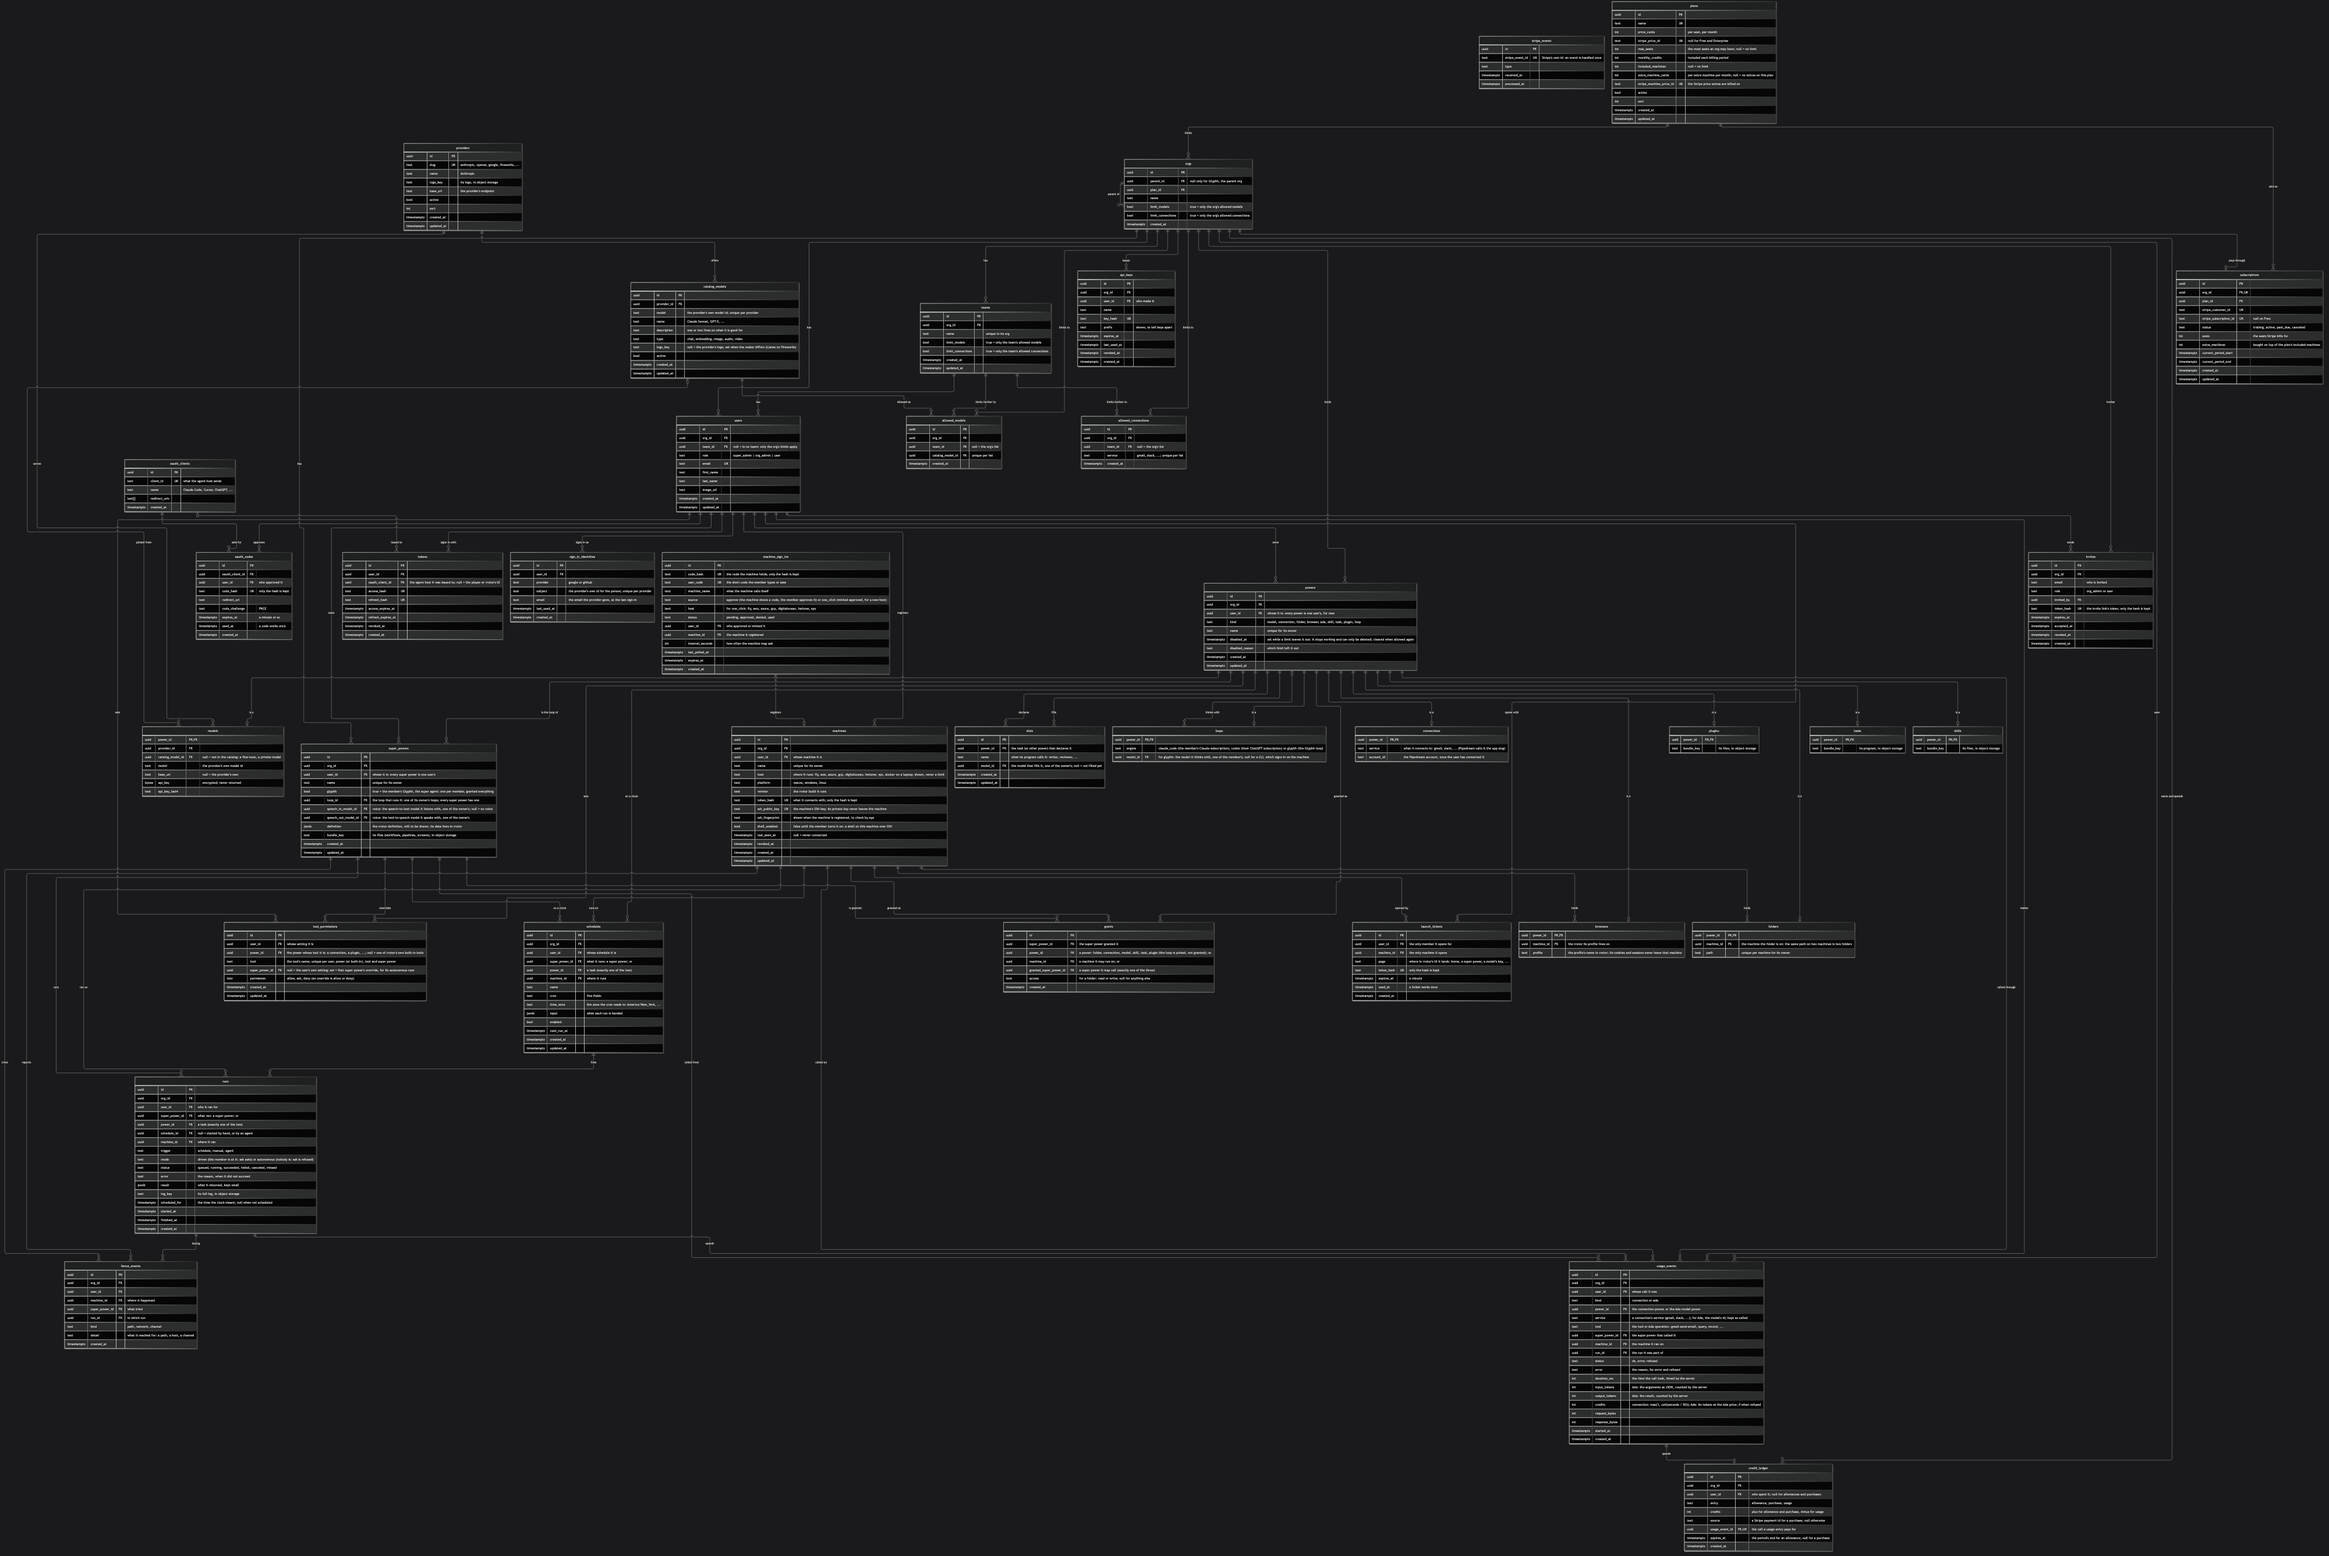
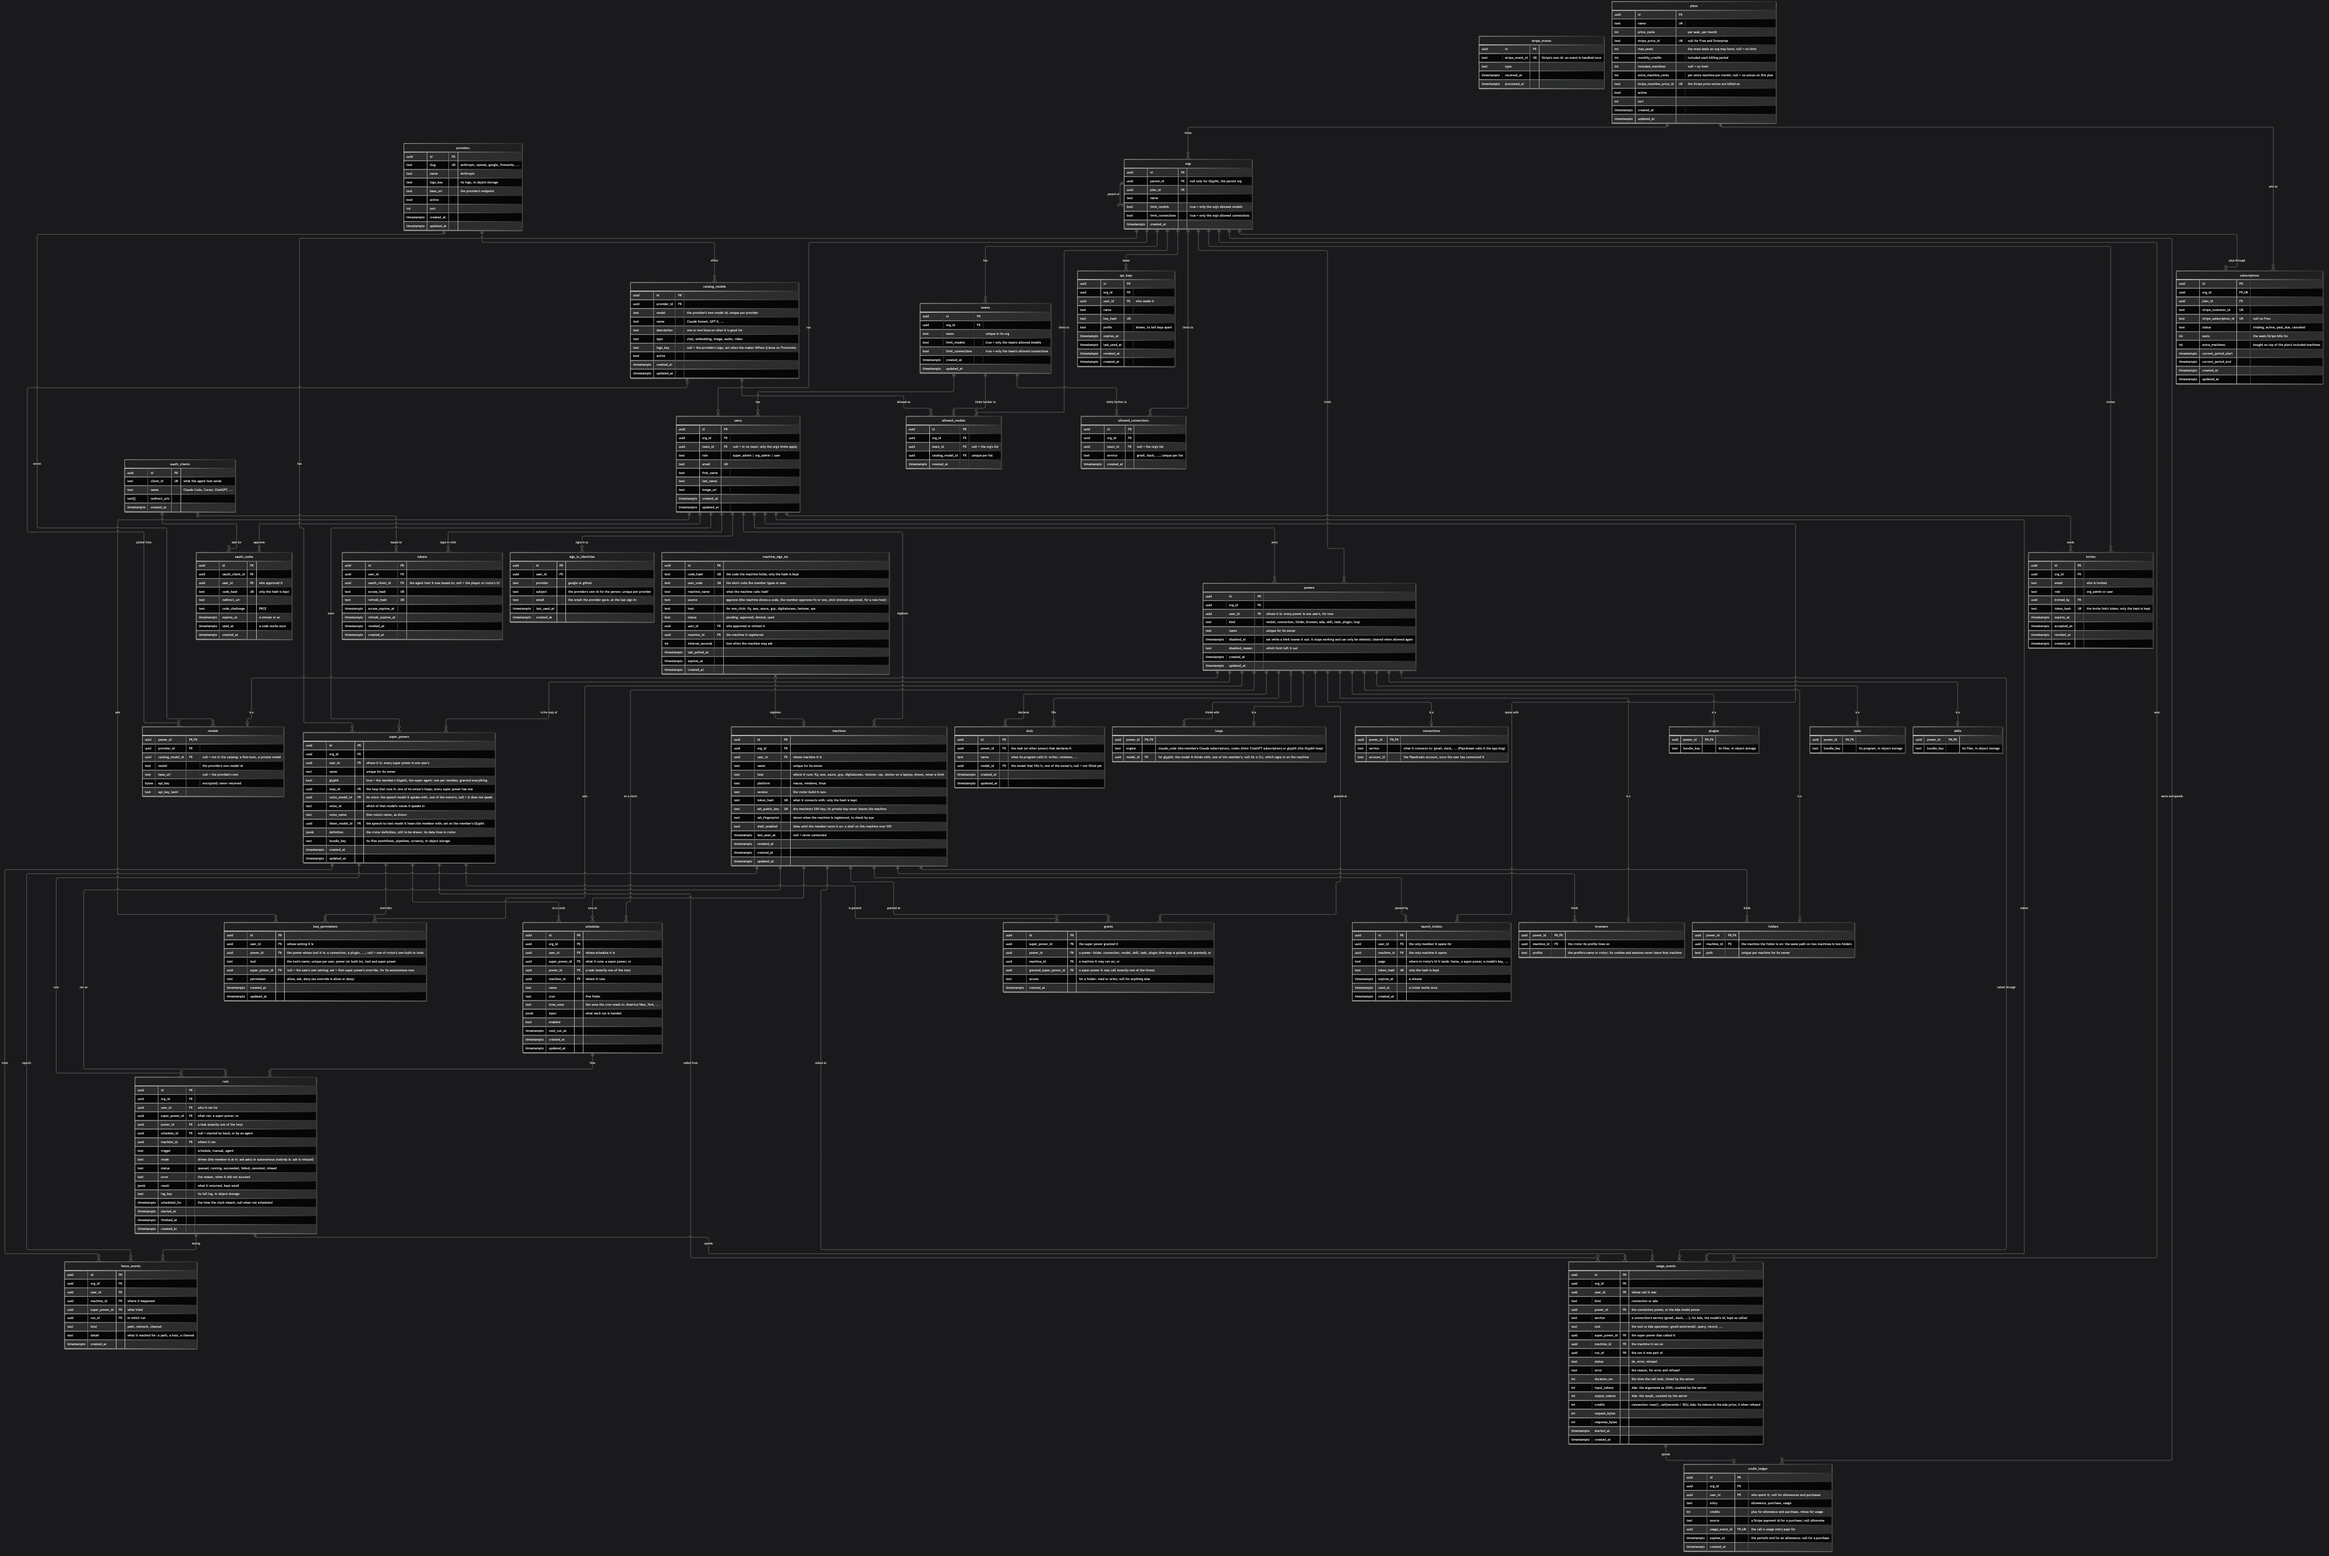
Every super power carries a voice: a speech model and one of its voices, on its edit screen, as the old app had it

diff --git a/server/docs/data-model.md b/server/docs/data-model.md
@@ -242,8 +242,10 @@ erDiagram
         text name "unique for its owner"
         bool glyphh "true = the member's Glyphh, the super agent: one per member, granted everything"
         uuid loop_id FK "the loop that runs it: one of its owner's loops; every super power has one"
-        uuid speech_in_model_id FK "voice: the speech-to-text model it listens with, one of the owner's; null = no voice"
-        uuid speech_out_model_id FK "voice: the text-to-speech model it speaks with, one of the owner's"
+        uuid voice_model_id FK "its voice: the speech model it speaks with, one of the owner's; null = it does not speak"
+        text voice_id "which of that model's voices it speaks in"
+        text voice_name "that voice's name, as shown"
+        uuid listen_model_id FK "the speech-to-text model it hears the member with; set on the member's Glyphh"
         jsonb definition "the rrotor definition, still to be drawn; its data lives in rrotor"
         text bundle_key "its files (workflows, pipelines, screens), in object storage"
         timestamptz created_at
@@ -607,7 +609,7 @@ Each member has one Glyphh, the super agent (`glyphh` true): it has every power,
 
 **A loop runs it; models are granted.** Every super power has one loop (`loop_id`): Claude Code or Codex on the member's subscription, or the Glyphh loop on one of their models. The member's Glyphh has one too: its loop is the main assistant's. A CLI's sign-in never reaches this database; it stays in the CLI on the machine. Its models are grants like any other power, as many as it needs: the super power uses them directly, and the powers it has use them too (a task's slots).
 
-**Voice** is on when a super power has its speech models (`speech_in_model_id`, `speech_out_model_id`), the member's Glyphh first of all: both are the member's own models, called directly on their keys. Audio never reaches this database.
+**Every super power carries a voice,** part of its configuration on its edit screen, beside its avatar and name (ported from the old app's super power editor): a speech model of the member's own (`voice_model_id`) and one of that model's voices (`voice_id`), with a sample to hear before saving. The member's Glyphh also has the model it hears them with (`listen_model_id`). All are the member's own models, called directly on their keys; audio never reaches this database.
 
 A super power's own files (its workflows, pipelines and screens) are a bundle in object storage (`bundle_key`); `definition` holds the rrotor definition, still to be drawn. What it stores (its data, vectors and graph) lives in rrotor, never here. Where the content of its conversations lives is still open.
 

diff --git a/server/docs/architecture.md b/server/docs/architecture.md
@@ -119,10 +119,10 @@ The same three are the loops a super power can run on, so a CLI is used like a m
 
 ### Voice
 
-rrotor talks and listens. The member turns voice on for their rrotor, picks a speech-to-text model and a text-to-speech model from their own models (their own keys, like any model), and presses the talk button in rrotor's UI, wherever it is open: inside Claude, or in any browser.
+rrotor talks and listens, and every super power has a voice of its own, set on its edit screen beside its avatar and name: one of the member's own speech models and one of that model's voices, with a sample to hear first (as the old app's super power editor had it). The member turns voice on for their rrotor, picks the speech-to-text model Glyphh hears them with, and presses the talk button in rrotor's UI, wherever it is open: inside Claude, or in any browser.
 
-- **The audio streams between the browser and rrotor,** over the same encrypted channel as the UI: what the member says is transcribed in rrotor by their speech-to-text model, the main assistant answers on its loop, and the answer is spoken back by their text-to-speech model.
-- **Hearing the swarm, literally:** the main assistant can say what its super powers are doing as it happens: one finished, one failed, one needs an answer, and the member can answer by voice.
+- **The audio streams between the browser and rrotor,** over the same encrypted channel as the UI: what the member says is transcribed in rrotor by their speech-to-text model, the main assistant answers on its loop, and the answer is spoken back in Glyphh's voice.
+- **Hearing the swarm, literally:** the main assistant says what its super powers are doing as it happens (one finished, one failed, one needs an answer), and a super power that speaks for itself does so in its own voice, so the member can tell who is talking. The member can answer by voice.
 - **Never priced by Glyphh, never through Glyphh's servers in the clear:** the speech models are called directly on the member's keys, and the relay passes only what it cannot read.
 
 Glyphh has the super power editor: the skills and tools to create a super power, grant and take back its powers, machines and super powers, and test-run it. Only Glyphh edits super powers; a super power under it cannot change its own grants or another's. Every editor step is a server operation, so it is an API call and an MCP tool too: a member edits a super power by talking to Glyphh, or in rrotor's UI. Ported from the old app's super power and power builders.
